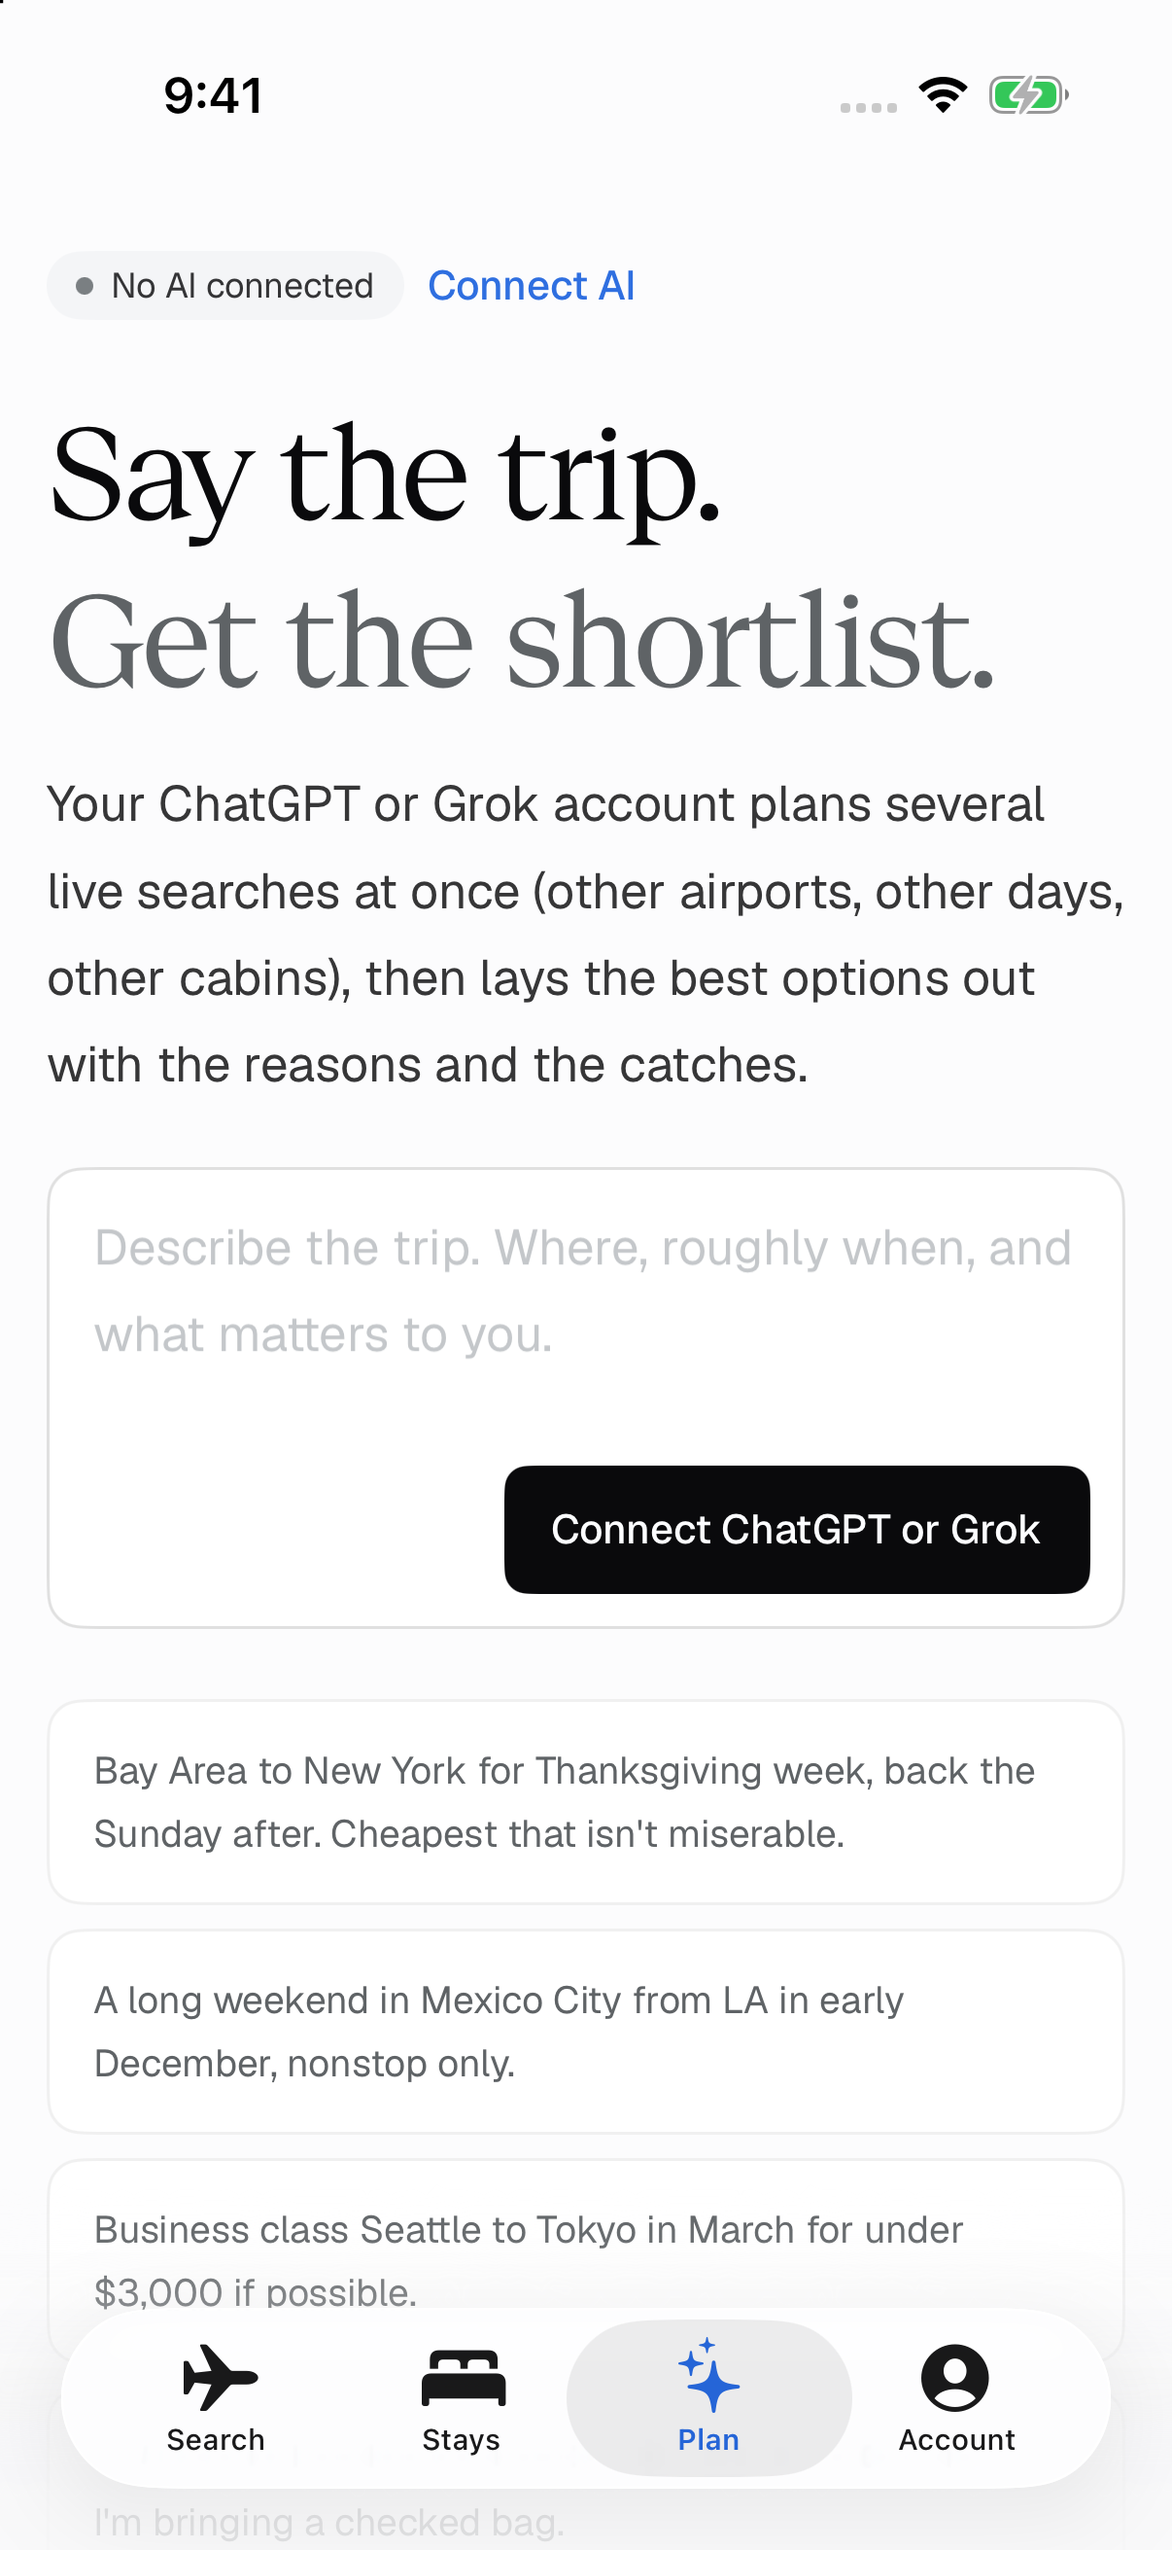
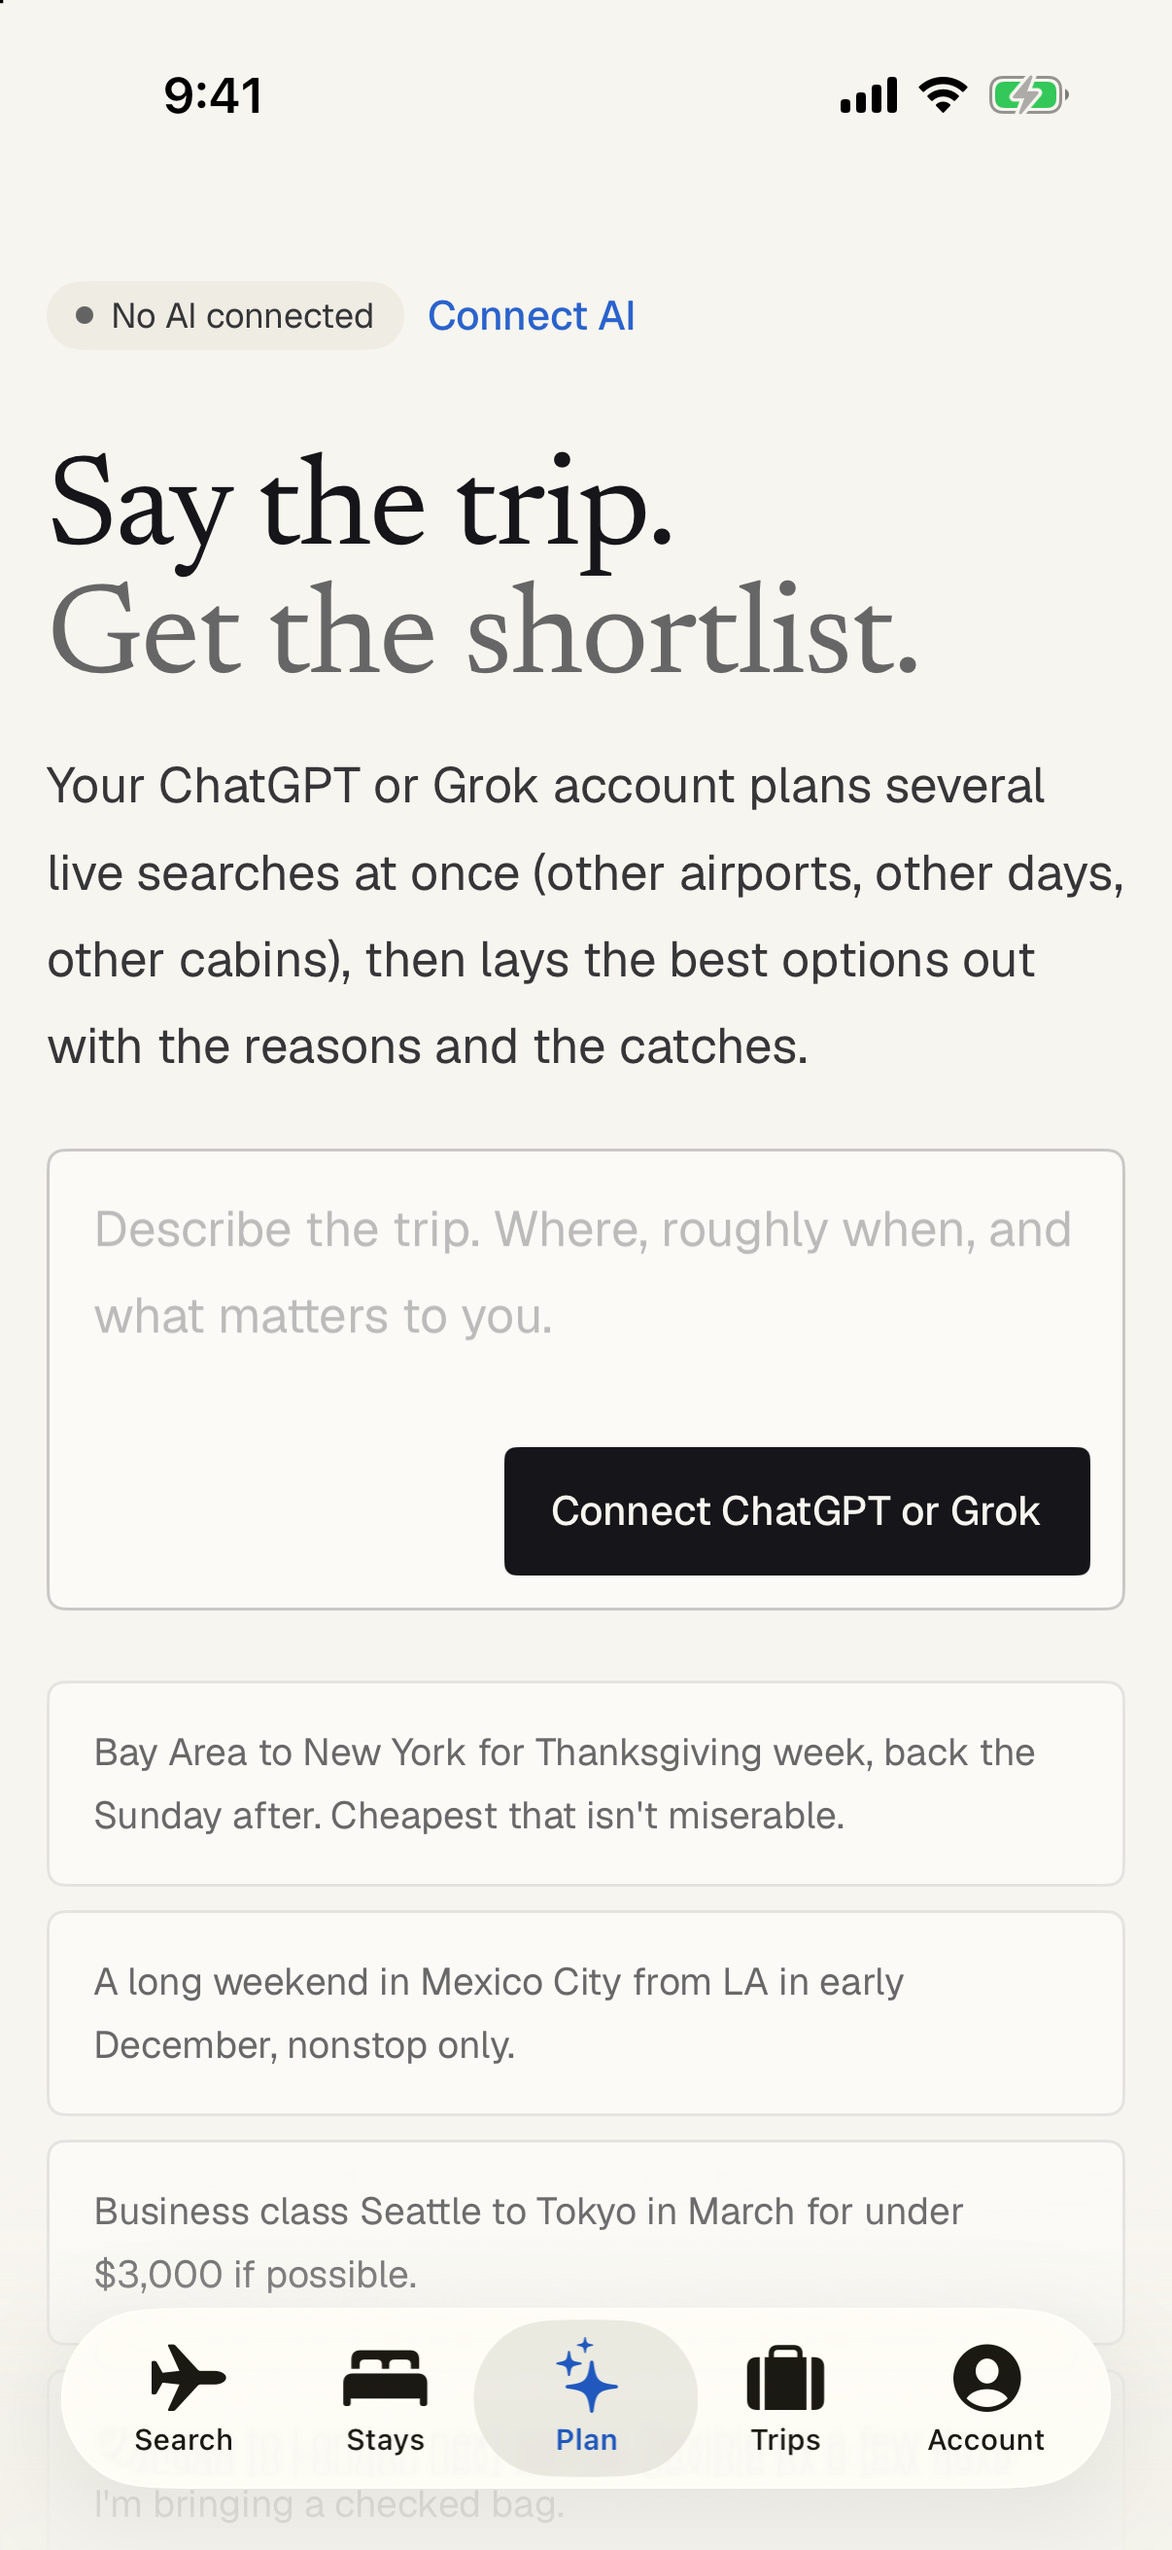
fix(ios): design pass: one hero top, v3 inputs, 44 pt taps, viewer gating
- Every tab's hero starts at the same height (Spacing.screenTop).
- Text inputs use the v3 field look (card fill, field-contrast border);
  Stays' dates drop the box around the system date button.
- Small buttons draw at 36 pt and chips at 40 pt, but both tap at 44 pt.
- Empty states title in Newsreader, as ~/DESIGN.md asks.
- Flight card ends keep the same rows so terminals line up; at
  accessibility text sizes the itinerary flight card moves its status
  under the name.
- Live flight status polls from the trip page, so itinerary flight cards
  get it without visiting Flights.
- Viewers: no budget card, read-only notes, no Add booking, and a hidden
  tab falls back to Overview.
- Release script: keychain search list handles paths with spaces and
  cleanup always deletes the temporary keychain.
- Debug-only launch arguments for simulator screenshots (dev-server
  sign-in, open a trip on a tab, scroll to a card); refreshed screenshots.

diff --git a/ios/Lodestar/Features/Trips/Views/Trip/TripDetailScreen.swift b/ios/Lodestar/Features/Trips/Views/Trip/TripDetailScreen.swift
@@ -46,10 +46,11 @@ struct TripDetailScreen: View {
     }
 
     var body: some View {
+        ScrollViewReader { proxy in
         ScrollView {
             VStack(alignment: .leading, spacing: Spacing.lg) {
                 TripCoverView(model: model, present: present, delete: { confirmDelete = true }, leave: { confirmLeave = true })
-                TripTabBar(model: model)
+                TripTabBar(model: model).id("tabs")
                 if let line = model.drafter.runningLine { LoadingStateView(message: line) }
                 if model.drafter.isFullDraft || model.drafter.parts.count == 5 { TripsDraftProgress(runner: model.drafter) { part in Task { await model.draft(part) } } }
                 TripsMessages(error: model.error ?? model.loadError, notice: model.notice)
@@ -58,10 +59,21 @@ struct TripDetailScreen: View {
             .padding(Spacing.gutter)
             .padding(.bottom, Spacing.xxl)
         }
+        #if DEBUG
+        // `-LodestarScrollTo tabs|<item id>|<YYYY-MM-DD>` scrolls the page once loaded, for simulator screenshots.
+        .task(id: model.hasFullTrip) {
+            guard model.hasFullTrip, let target = UserDefaults.standard.string(forKey: "LodestarScrollTo") else { return }
+            try? await Task.sleep(for: .milliseconds(600))
+            proxy.scrollTo(target, anchor: .top)
+        }
+        #endif
+        }
         .canvasBackground()
         .navigationTitle(model.journey.title)
         .navigationBarTitleDisplayMode(.inline)
         .refreshable { await model.reload() }
+        // Live flight status for the Flights tab and the itinerary's flight cards alike.
+        .task(id: flightSignature) { await model.pollFlights() }
         .task {
             await model.load()
             if let wishes = route.draftWishes, model.drafter.parts.isEmpty {
@@ -89,12 +101,18 @@ struct TripDetailScreen: View {
         .onChange(of: model.isDeleted) { _, gone in if gone && model.loadError != nil { dismiss() } }
     }
 
+    private var flightSignature: String {
+        model.trip.items.filter { $0.kind == .flight }
+            .map { "\($0.id):\($0.startDate.string):\($0.details.flightNumber ?? $0.title)" }.joined(separator: "|")
+    }
+
     private func present(_ next: TripsTripSheet) {
         sheet = next
     }
 
     @ViewBuilder private var tabContent: some View {
-        switch model.tab {
+        // A tab a view-only member can't see (from a deep link or the overview) falls back to Overview.
+        switch model.visibleTabs.contains(model.tab) ? model.tab : .overview {
         case .overview: TripOverviewTab(model: model, present: present)
         case .itinerary: TripItineraryTab(model: model, present: present)
         case .flights: TripFlightsTab(model: model, present: present)

diff --git a/ios/Lodestar/Features/Trips/Views/Flights/TripsFlightSegment.swift b/ios/Lodestar/Features/Trips/Views/Flights/TripsFlightSegment.swift
@@ -12,6 +12,7 @@ struct TripsFlightSegment: View {
     let present: (TripsTripSheet) -> Void
 
     @State private var confirmRemove = false
+    @Environment(\.dynamicTypeSize) private var typeSize
 
     private var flight: TripItem { group.flight }
 
@@ -58,11 +59,15 @@ struct TripsFlightSegment: View {
                 title
                 let sub = TripsFlightText.segmentSubtitle(view, guests: flight.details.guests)
                 if !sub.isEmpty {
-                    Text(sub).font(.geist(.mono, size: 12, relativeTo: .caption)).monospacedDigit().foregroundStyle(Color.mute).lineLimit(1)
+                    Text(sub).font(.geist(.mono, size: 12, relativeTo: .caption)).monospacedDigit().foregroundStyle(Color.mute)
+                        .lineLimit(typeSize.isAccessibilitySize ? 3 : 1)
                 }
+                // At accessibility sizes the badge drops under the title so the name keeps its width.
+                if typeSize.isAccessibilitySize { TripsFlightStatusBadge(view: view).padding(.top, Spacing.xs) }
             }
+            .layoutPriority(1)
             Spacer(minLength: Spacing.xs)
-            TripsFlightStatusBadge(view: view)
+            if !typeSize.isAccessibilitySize { TripsFlightStatusBadge(view: view) }
             if model.journey.canEdit { menu }
         }
         .padding(.leading, Spacing.md)
@@ -82,7 +87,7 @@ struct TripsFlightSegment: View {
             + Text(route).font(.geist(.sans, size: 15, relativeTo: .callout)).foregroundStyle(Color.bodyText))
             .foregroundStyle(cancelled ? Color.ash : Color.ink)
             .strikethrough(cancelled)
-            .lineLimit(2)
+            .lineLimit(typeSize.isAccessibilitySize ? 4 : 2)
     }
 
     private var menu: some View {

diff --git a/ios/Lodestar/Features/Stays/Views/StaysFormView.swift b/ios/Lodestar/Features/Stays/Views/StaysFormView.swift
@@ -69,8 +69,8 @@ struct StaysFormView: View {
                 }
                 .padding(.horizontal, 14)
                 .frame(minHeight: Sizes.input)
-                .background(Color.deep, in: RoundedRectangle(cornerRadius: Radius.md))
-                .overlay(RoundedRectangle(cornerRadius: Radius.md).strokeBorder(Color.hairlineStrong, lineWidth: Sizes.hairline))
+                .background(Color.card, in: RoundedRectangle(cornerRadius: Radius.md))
+                .overlay(RoundedRectangle(cornerRadius: Radius.md).strokeBorder(Color.hairlineHover, lineWidth: Sizes.hairline))
             }
             .accessibilityLabel("Guests, \(plural(adults, "adult"))")
         }
@@ -109,10 +109,8 @@ private struct StaysDateField: View {
             .tint(Color.accent)
             .environment(\.timeZone, Self.utcCalendar.timeZone)
             .environment(\.calendar, Self.utcCalendar)
+            // The system date button stands alone, as on Search: no field box around it.
             .frame(maxWidth: .infinity, minHeight: Sizes.input, alignment: .leading)
-            .padding(.horizontal, Spacing.sm)
-            .background(Color.deep, in: RoundedRectangle(cornerRadius: Radius.md))
-            .overlay(RoundedRectangle(cornerRadius: Radius.md).strokeBorder(Color.hairlineStrong, lineWidth: Sizes.hairline))
         }
         .frame(maxWidth: .infinity)
     }

diff --git a/ios/Lodestar/Features/Trips/Views/Flights/TripsFlightCard.swift b/ios/Lodestar/Features/Trips/Views/Flights/TripsFlightCard.swift
@@ -147,14 +147,13 @@ struct TripsFlightEnd: View {
         VStack(alignment: align, spacing: Spacing.xs) {
             Text(arriving ? "Arrive" : "Depart").font(.geist(.mono, size: 12, relativeTo: .caption)).foregroundStyle(Color.mute)
             Text(end.code ?? "—").font(.geist(.monoMedium, size: 32, relativeTo: .largeTitle)).foregroundStyle(Color.ink)
+                .lineLimit(1).minimumScaleFactor(0.6)
                 .padding(.top, Spacing.xs)
             time
             Text(end.was.map(ClockText.time12) ?? " ")
                 .font(.geist(.mono, size: 12, relativeTo: .caption)).strikethrough(end.was != nil).foregroundStyle(Color.mute)
                 .accessibilityLabel(end.was.map { "was \(ClockText.time12($0))" } ?? "")
-            if let place = end.city ?? end.name {
-                Text(place).textStyle(.bodySM).foregroundStyle(Color.bodyText).lineLimit(1)
-            }
+            Text(end.city ?? end.name ?? " ").textStyle(.bodySM).foregroundStyle(Color.bodyText).lineLimit(1)
             Text(TripsFlightText.gateLine(end) ?? "Gate posted on travel day")
                 .font(.geist(.mono, size: 12, relativeTo: .caption)).foregroundStyle(Color.mute)
                 .multilineTextAlignment(arriving ? .trailing : .leading)

diff --git a/ios/Lodestar/Features/Trips/Views/Home/FareWatchSection.swift b/ios/Lodestar/Features/Trips/Views/Home/FareWatchSection.swift
@@ -111,8 +111,8 @@ struct FareWatchCard: View {
                         .textStyle(.bodySM)
                         .frame(width: 96, height: 36)
                         .padding(.horizontal, Spacing.sm)
-                        .background(Color.deep, in: RoundedRectangle(cornerRadius: Radius.md))
-                        .overlay(RoundedRectangle(cornerRadius: Radius.md).strokeBorder(Color.hairlineStrong, lineWidth: Sizes.hairline))
+                        .background(Color.card, in: RoundedRectangle(cornerRadius: Radius.md))
+                        .overlay(RoundedRectangle(cornerRadius: Radius.md).strokeBorder(Color.hairlineHover, lineWidth: Sizes.hairline))
                         .accessibilityLabel("Target price in dollars")
                     if trip.targetHit { Text("sent").textStyle(.hint).foregroundStyle(Color.ash) }
                     if targetFocused { Button("Save") { targetFocused = false }.buttonStyle(.lodestar(.link)) }

diff --git a/ios/Lodestar/Design/Theme/Metrics.swift b/ios/Lodestar/Design/Theme/Metrics.swift
@@ -14,6 +14,8 @@ enum Spacing {
     static let band: CGFloat = 128
     /// Phone side gutter.
     static let gutter: CGFloat = 16
+    /// Space above a top-level screen's hero, below the safe area. The same on every tab.
+    static let screenTop: CGFloat = 24
 }
 
 /// Ink & Instrument radii: 4 pt controls, 6 pt cards and panels; nothing above 6 except pills.
@@ -32,7 +34,10 @@ enum Radius {
 /// Control sizes (iOS touch sizes where the web is smaller).
 enum Sizes {
     static let button: CGFloat = 44
-    static let buttonSmall: CGFloat = 32
+    /// Drawn height of a small button; its tap area still reaches `minTap`.
+    static let buttonSmall: CGFloat = 36
+    /// The HIG's 44 pt minimum touch target.
+    static let minTap: CGFloat = 44
     static let input: CGFloat = 48
     static let chip: CGFloat = 40
     static let statusDot: CGFloat = 8

diff --git a/ios/Lodestar/Features/Trips/TripsRootView.swift b/ios/Lodestar/Features/Trips/TripsRootView.swift
@@ -64,5 +64,21 @@ struct TripsHomeScreen: View {
                     }
                 }
         }
+        #if DEBUG
+        .task { await openDebugTrip() }
+        #endif
     }
+
+    #if DEBUG
+    /// `-LodestarTrip <id> -LodestarTripTab flights` opens a trip on a tab, for simulator screenshots.
+    private func openDebugTrip() async {
+        let defaults = UserDefaults.standard
+        guard let id = defaults.string(forKey: "LodestarTrip"), path.isEmpty else { return }
+        let tab = defaults.string(forKey: "LodestarTripTab").flatMap(TripsTab.init(rawValue:)) ?? .overview
+        for _ in 0..<40 where model.journey(id: id) == nil {
+            try? await Task.sleep(for: .milliseconds(250))
+        }
+        if model.journey(id: id) != nil { path.append(TripsRoute(id: id, tab: tab)) }
+    }
+    #endif
 }

diff --git a/ios/Lodestar/App/AppState.swift b/ios/Lodestar/App/AppState.swift
@@ -94,6 +94,15 @@ final class AppState {
     /// Loads the account and AI status. Call once at launch.
     func bootstrap() async {
         await refreshAccount()
+        #if DEBUG
+        // `-LodestarDebugEmail a@b.c -LodestarDebugPassword …` signs a dev-server test account in, for
+        // simulator screenshots. Debug builds only; never point it at production.
+        let defaults = UserDefaults.standard
+        if !isSignedIn, let email = defaults.string(forKey: "LodestarDebugEmail"), let password = defaults.string(forKey: "LodestarDebugPassword") {
+            try? await signIn(email: email, password: password)
+        }
+        if let tab = defaults.string(forKey: "LodestarTab").flatMap(AppTab.init(rawValue:)) { selectedTab = tab }
+        #endif
         await refreshAIStatus()
     }
 

diff --git a/ios/Lodestar/Features/Trips/Views/Trip/TripSheetContent.swift b/ios/Lodestar/Features/Trips/Views/Trip/TripSheetContent.swift
@@ -88,8 +88,8 @@ struct TripsNoteSheet: View {
                     .font(TextStyle.bodySM.font)
                     .scrollContentBackground(.hidden)
                     .padding(Spacing.sm)
-                    .background(Color.deep, in: RoundedRectangle(cornerRadius: Radius.md))
-                    .overlay(RoundedRectangle(cornerRadius: Radius.md).strokeBorder(Color.hairlineStrong, lineWidth: Sizes.hairline))
+                    .background(Color.card, in: RoundedRectangle(cornerRadius: Radius.md))
+                    .overlay(RoundedRectangle(cornerRadius: Radius.md).strokeBorder(Color.hairlineHover, lineWidth: Sizes.hairline))
                     .frame(minHeight: 200)
                     .accessibilityLabel("Note")
                 if let error { InlineError(message: error) }

diff --git a/ios/Lodestar/Features/Trips/Views/Sheets/TripsPlaceTripPart.swift b/ios/Lodestar/Features/Trips/Views/Sheets/TripsPlaceTripPart.swift
@@ -80,8 +80,8 @@ struct TripsPlaceTripPart: View {
                 .focused($noteFocused)
                 .textStyle(.bodySM)
                 .padding(Spacing.md)
-                .background(Color.deep, in: RoundedRectangle(cornerRadius: Radius.md))
-                .overlay(RoundedRectangle(cornerRadius: Radius.md).strokeBorder(noteFocused ? Color.accent : Color.hairlineStrong, lineWidth: Sizes.hairline))
+                .background(Color.card, in: RoundedRectangle(cornerRadius: Radius.md))
+                .overlay(RoundedRectangle(cornerRadius: Radius.md).strokeBorder(noteFocused ? Color.accent : Color.hairlineHover, lineWidth: Sizes.hairline))
             if noteFocused {
                 Button("Save note") { noteFocused = false }.buttonStyle(.lodestar(.link))
             }

diff --git a/ios/Lodestar/Features/Account/Components/TasteFields.swift b/ios/Lodestar/Features/Account/Components/TasteFields.swift
@@ -107,9 +107,9 @@ struct DoingFields: View {
                 .focused($budgetFocused)
                 .padding(.horizontal, 14)
                 .frame(width: 160, height: Sizes.input)
-                .background(Color.deep, in: RoundedRectangle(cornerRadius: Radius.md))
+                .background(Color.card, in: RoundedRectangle(cornerRadius: Radius.md))
                 .overlay(RoundedRectangle(cornerRadius: Radius.md)
-                    .strokeBorder(budgetFocused ? Color.accent : Color.hairlineStrong, lineWidth: Sizes.hairline))
+                    .strokeBorder(budgetFocused ? Color.accent : Color.hairlineHover, lineWidth: Sizes.hairline))
                 .onChange(of: budgetFocused) { _, isFocused in if !isFocused { draft.commitHotelBudget() } }
         }
     }

diff --git a/ios/Lodestar/Features/Account/Components/AccountSelectField.swift b/ios/Lodestar/Features/Account/Components/AccountSelectField.swift
@@ -26,8 +26,8 @@ struct AccountSelectField<Value: Hashable>: View {
                 }
                 .padding(.horizontal, Spacing.md)
                 .frame(minHeight: Sizes.input)
-                .background(Color.deep, in: RoundedRectangle(cornerRadius: Radius.md))
-                .overlay(RoundedRectangle(cornerRadius: Radius.md).strokeBorder(Color.hairlineStrong, lineWidth: Sizes.hairline))
+                .background(Color.card, in: RoundedRectangle(cornerRadius: Radius.md))
+                .overlay(RoundedRectangle(cornerRadius: Radius.md).strokeBorder(Color.hairlineHover, lineWidth: Sizes.hairline))
                 .contentShape(RoundedRectangle(cornerRadius: Radius.md))
             }
             .accessibilityLabel(label)
